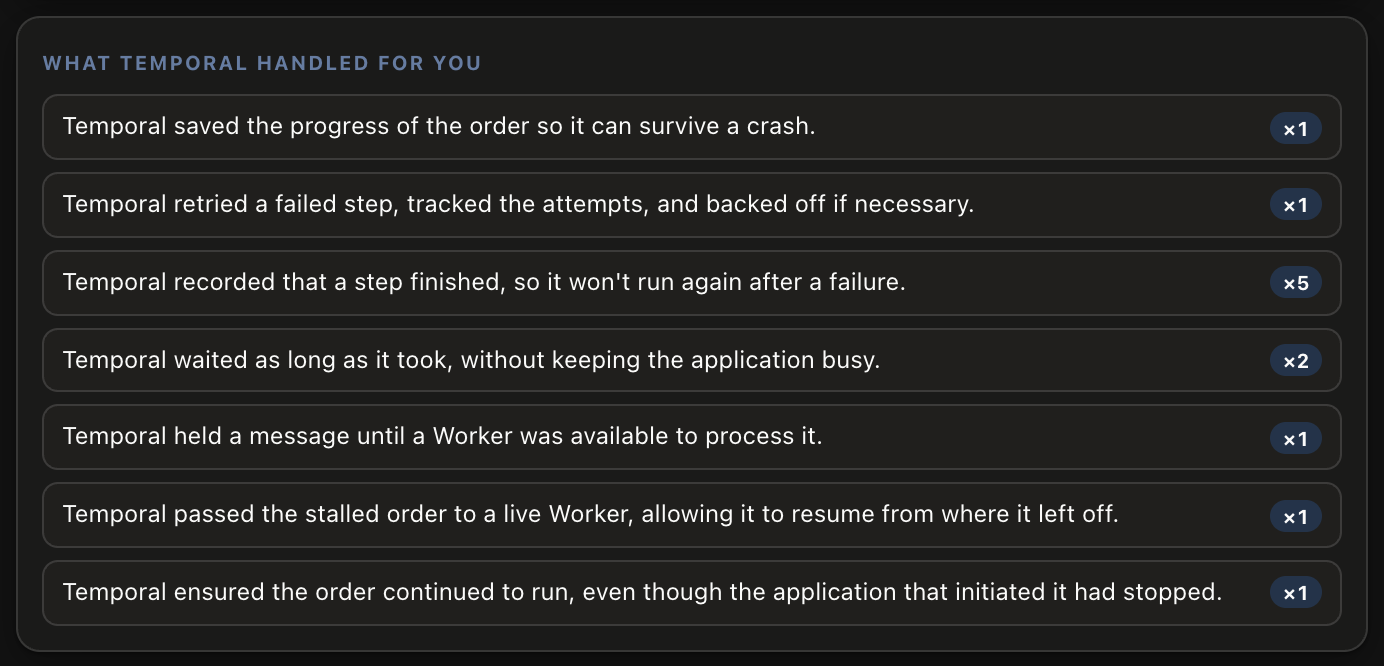
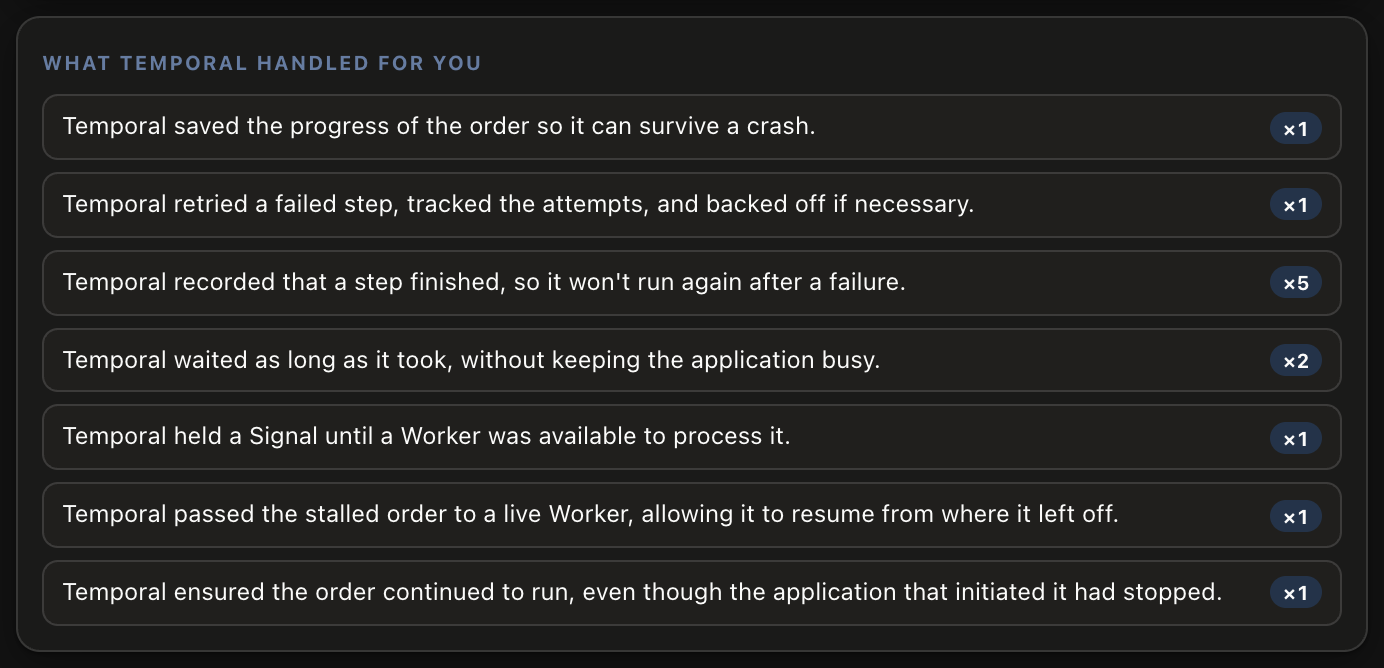
PR Feedback

diff --git a/frontend/index.html b/frontend/index.html
@@ -274,7 +274,7 @@
     stepDone:   "Temporal recorded that a step finished, so it won't run again after a failure.",
     retrying:   "Temporal retried a failed step, tracked the attempts, and backed off if necessary.",
     waiting:    "Temporal waited as long as it took, without keeping the application busy.",
-    heldSignal: "Temporal held a message until a Worker was available to process it.",
+    heldSignal: "Temporal held a Signal until a Worker was available to process it.",
     resumed:    "Temporal passed the stalled order to a live Worker, allowing it to resume from where it left off.",
     appDown:    "Temporal ensured the order continued to run, even though the application that initiated it had stopped.",
   };

diff --git a/instruqt/03-velocity/assignment.md b/instruqt/03-velocity/assignment.md
@@ -37,7 +37,7 @@ Open the [button label="Chaos Panel" background="#444CE7"](tab-0) tab.
 
 Scroll to the bottom of the panel, below the **Place order** button. You'll find a section called **What Temporal handled for you**. It starts empty, and each time Temporal takes care of something, a line appears describing what it did. If the same thing happens more than once, the count on that line goes up.
 
-![The What Temporal handled for you list after an order that went through every disruption: saving progress, retrying, recording finished steps (x5), waiting (x2), holding a message, resuming on a new Worker, and running without the Order app](../assets/panel-handled.png)
+![The What Temporal handled for you list after an order that went through every disruption: saving progress, retrying, recording finished steps (x5), waiting (x2), holding a Signal, resuming on a new Worker, and running without the Order app](../assets/panel-handled.png)
 
 The list only shows one order at a time, and it will clear whenever you place a new one.
 
@@ -52,7 +52,7 @@ Even with nothing broken, the list fills up. Temporal saved the order's progress
 Now repeat some of what you did in the first exercise, and watch the list as you go:
 
 - **Switch off the Charge payment step, then place an order.** Notice that a line has appeared for the retries. Its count goes up once for each outage, not for every attempt, so it reads `×1` even though the Temporal UI showed many attempts. Switch the **Charge payment** step back on and let the order continue.
-- **Kill the Worker while the order waits at the kitchen.** Click **Finish** while the Worker is down, and switch the Worker back on. Two lines appear: one for holding the message until a Worker could process it, and one for handing the order to the new Worker so it could carry on from where it left off.
+- **Kill the Worker while the order waits at the kitchen.** Click **Finish** while the Worker is down, and switch the Worker back on. Two lines appear: one for holding the Signal until a Worker could process it, and one for handing the order to the new Worker so it could carry on from where it left off.
 - **Switch off the Order app while an order is running.** A line appears for keeping the order running without it.
 
 Try the same disruptions in different combinations. Every line you see is something Temporal did for you.
